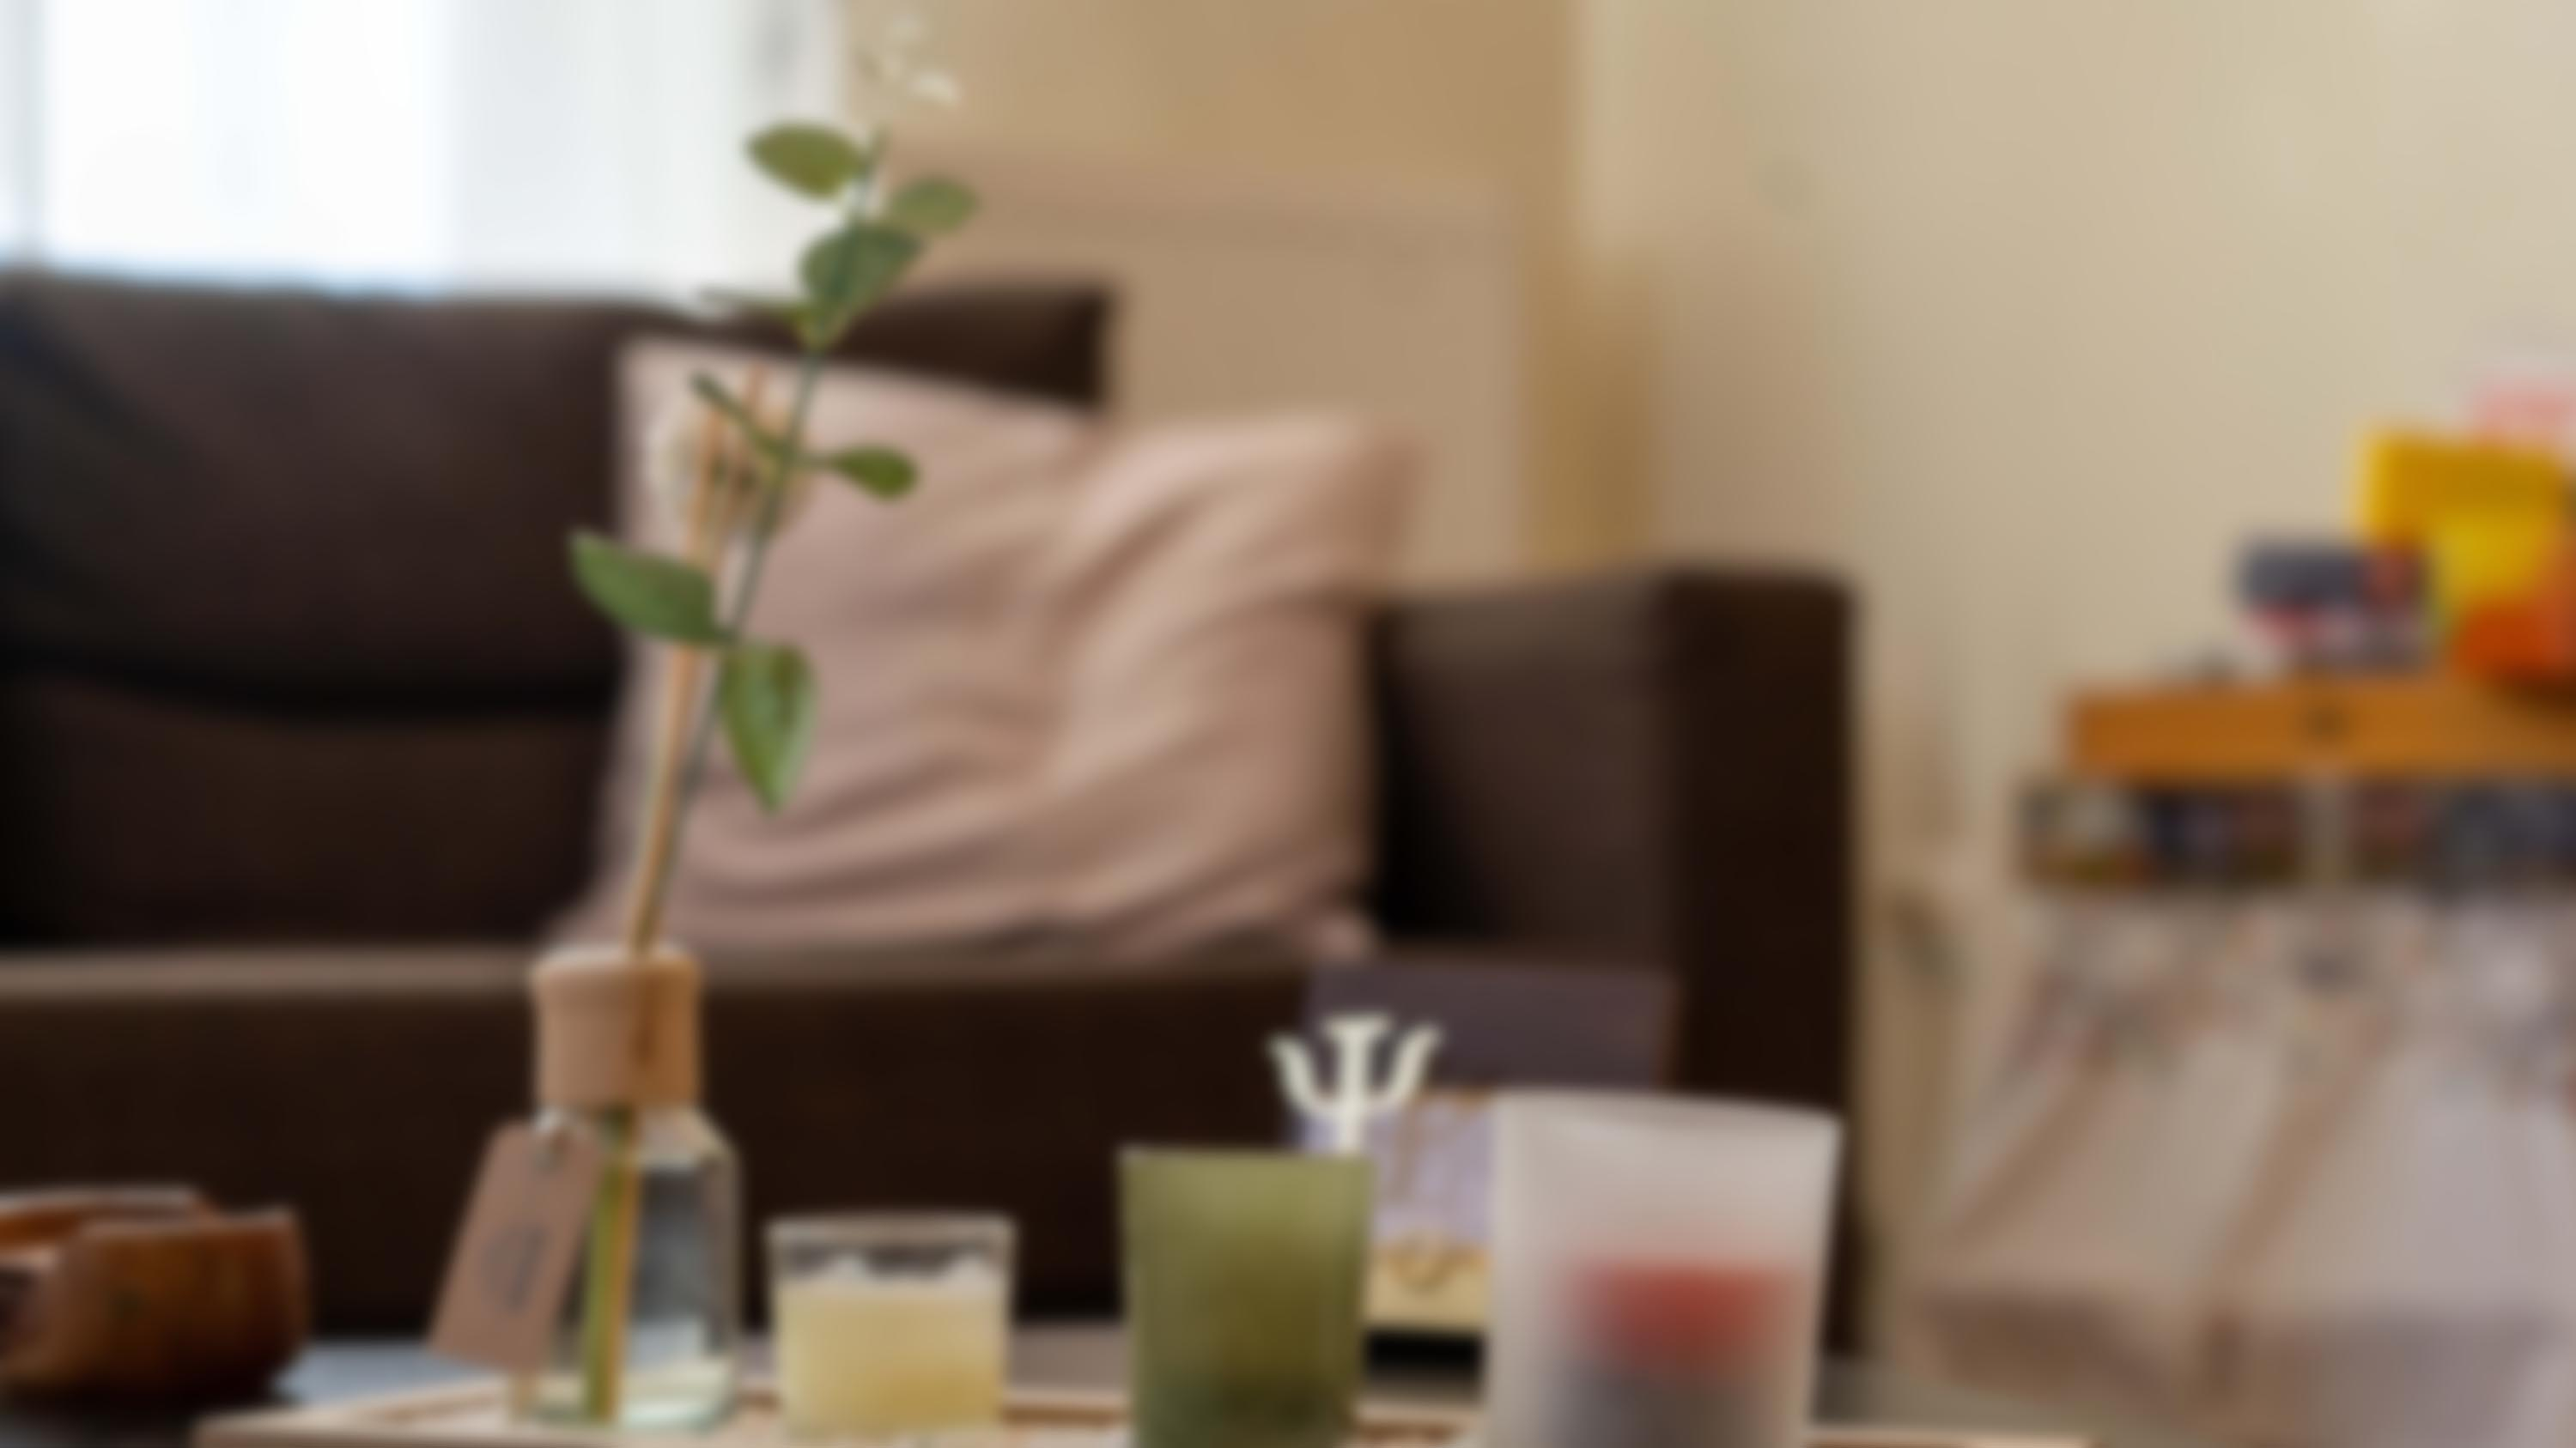
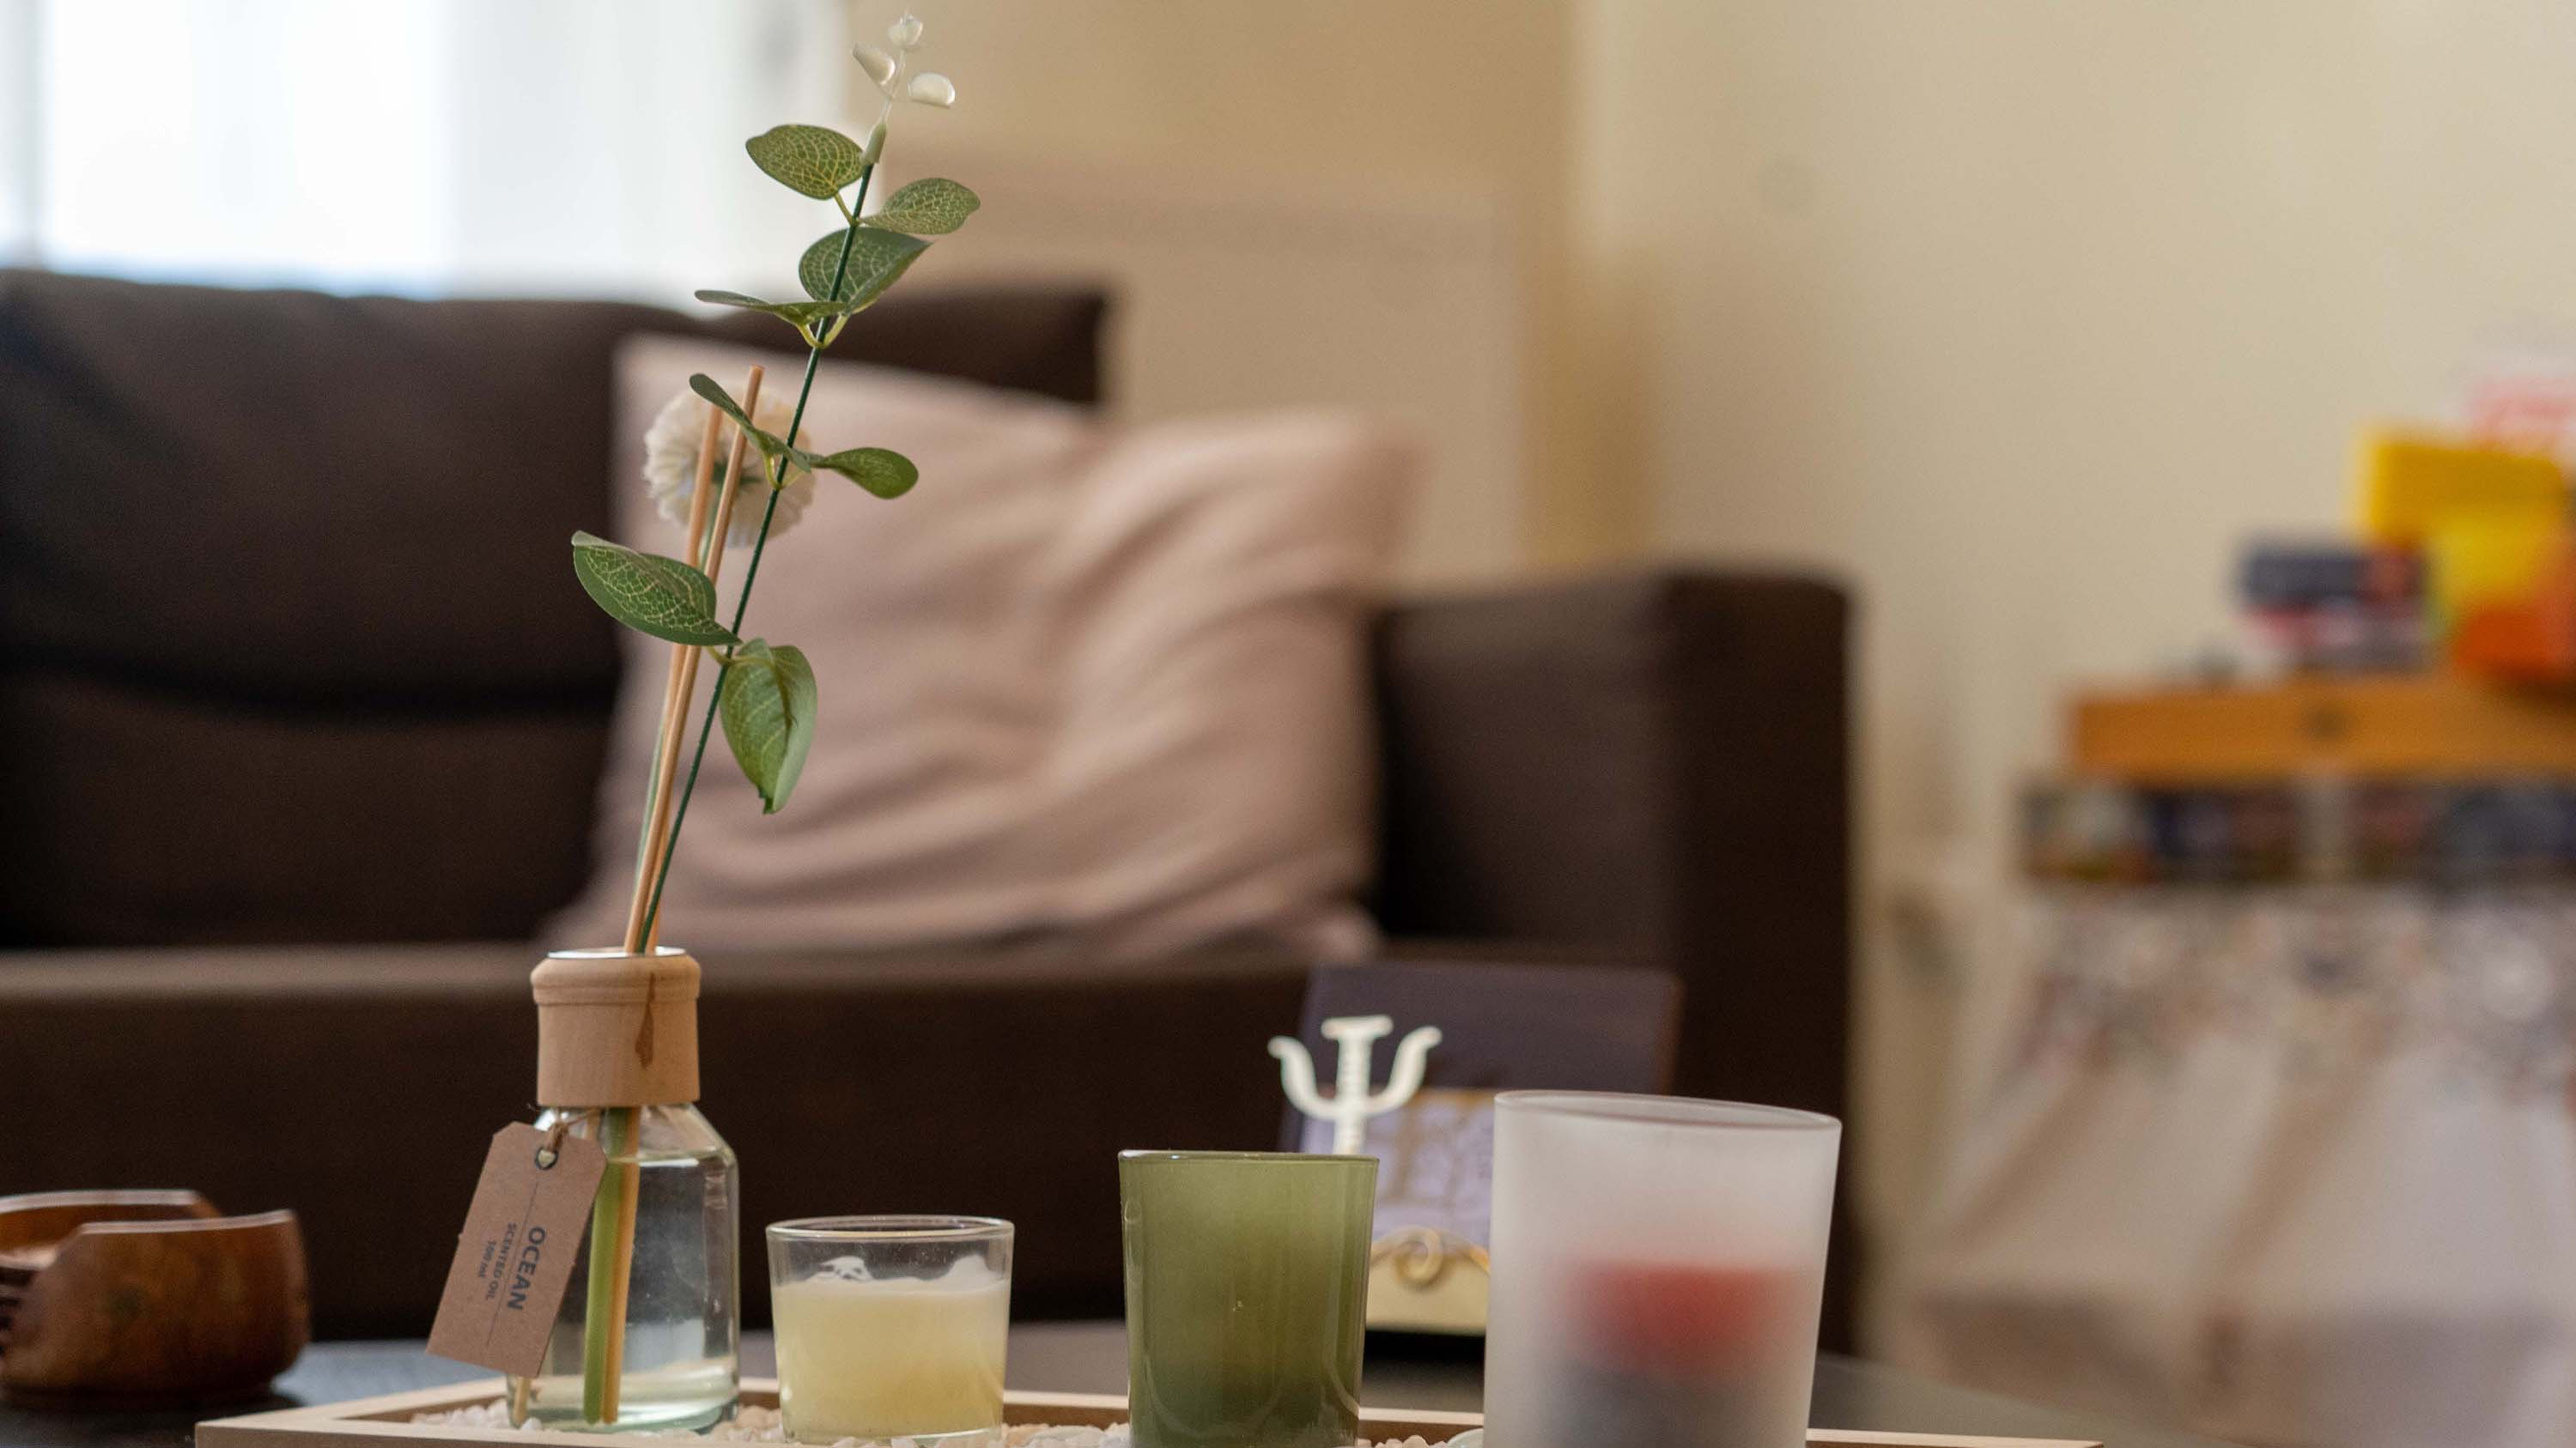
fix: Unblur home image.

diff --git a/style.css b/style.css
@@ -549,7 +549,7 @@ blockquote p {
 .parallax-section {
 	z-index: -1;
 	clear: both;
-	background-image: url("images/home.jpg?2");
+	background-image: url("images/home.jpg?3");
 	background-repeat: repeat;
 	background-attachment: fixed;
 	background-position: center center;
